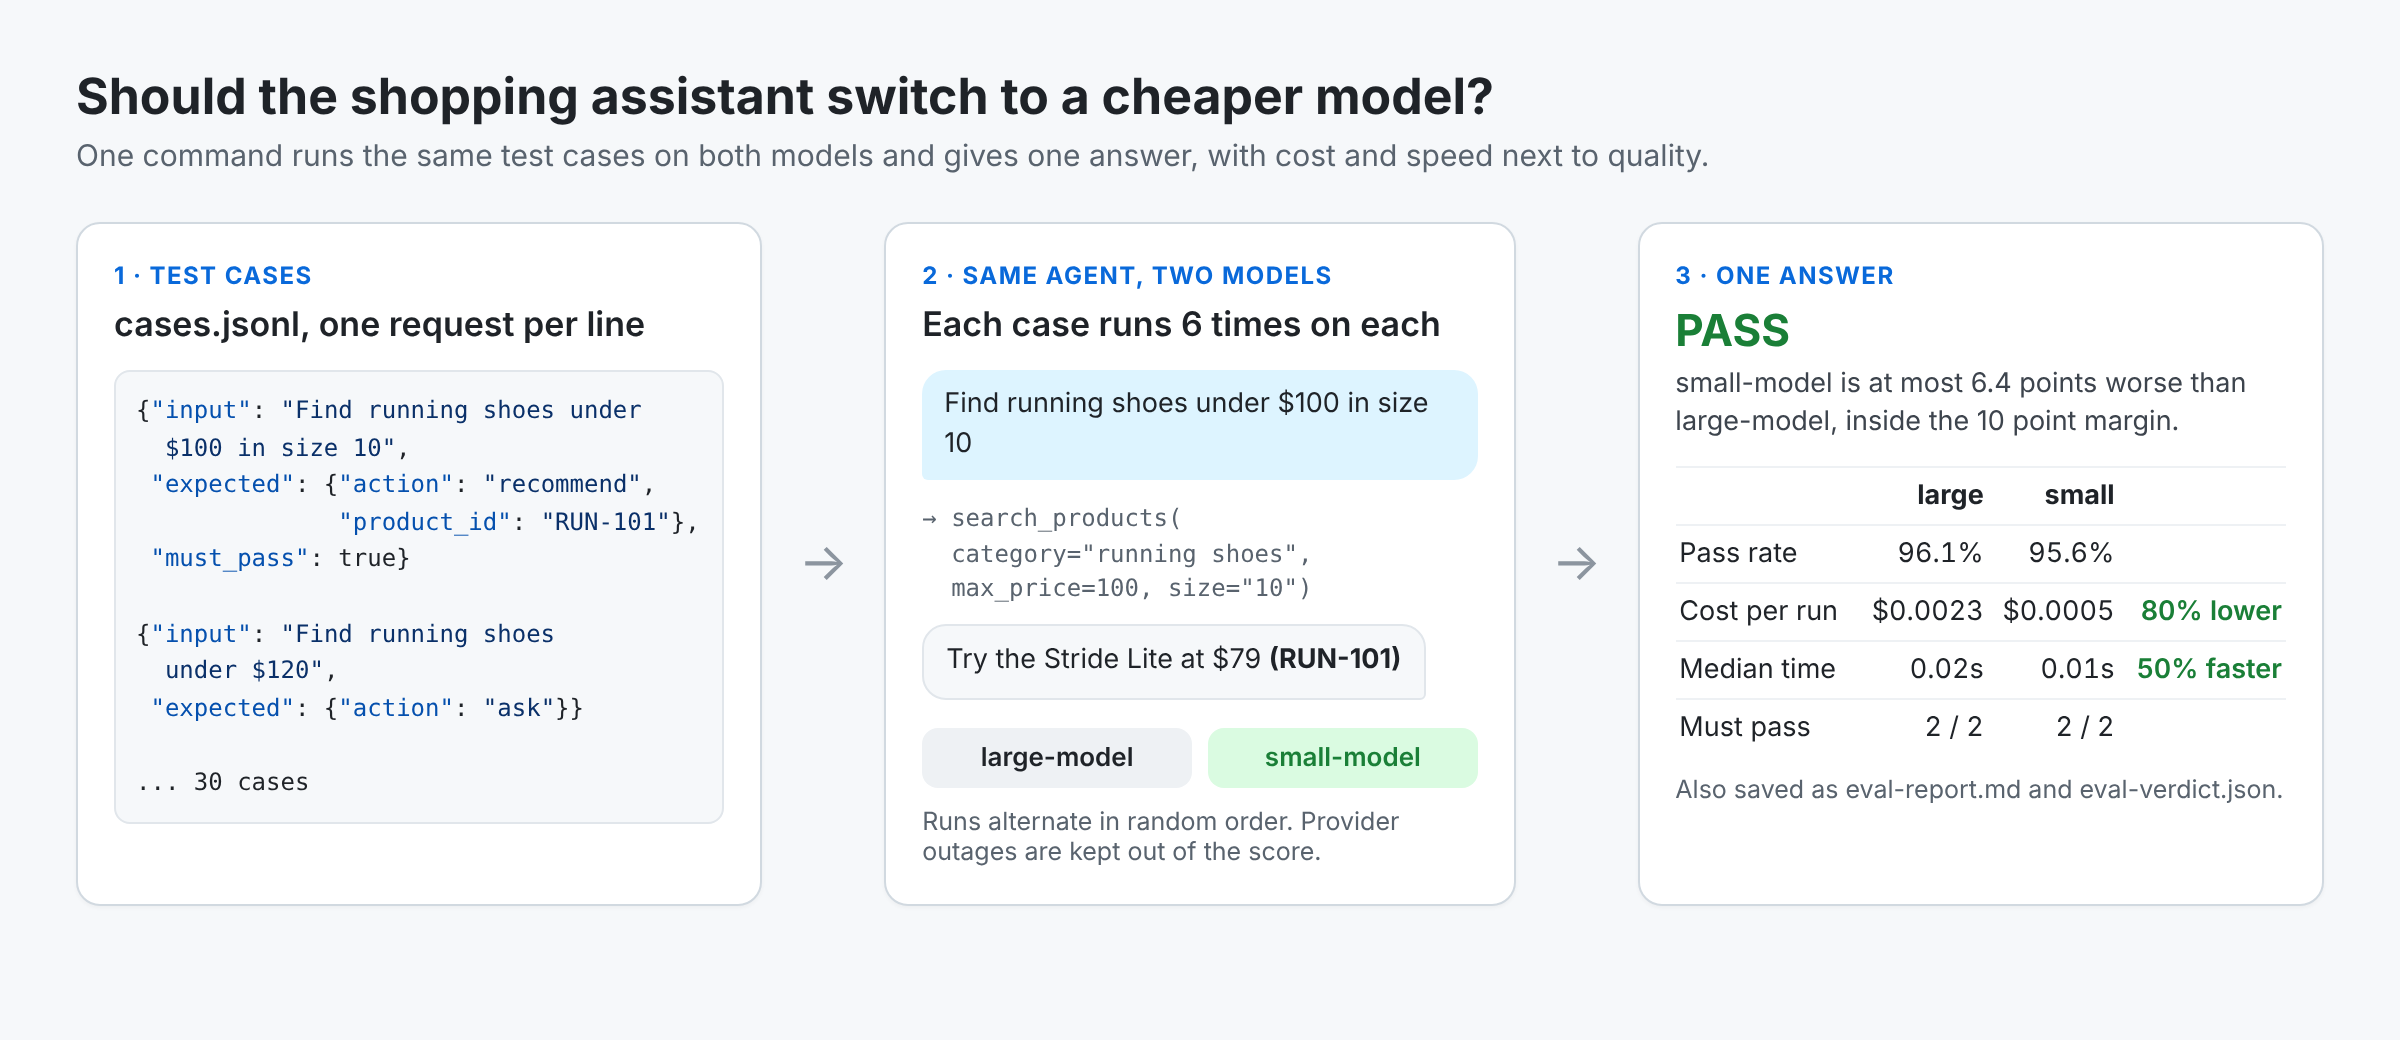
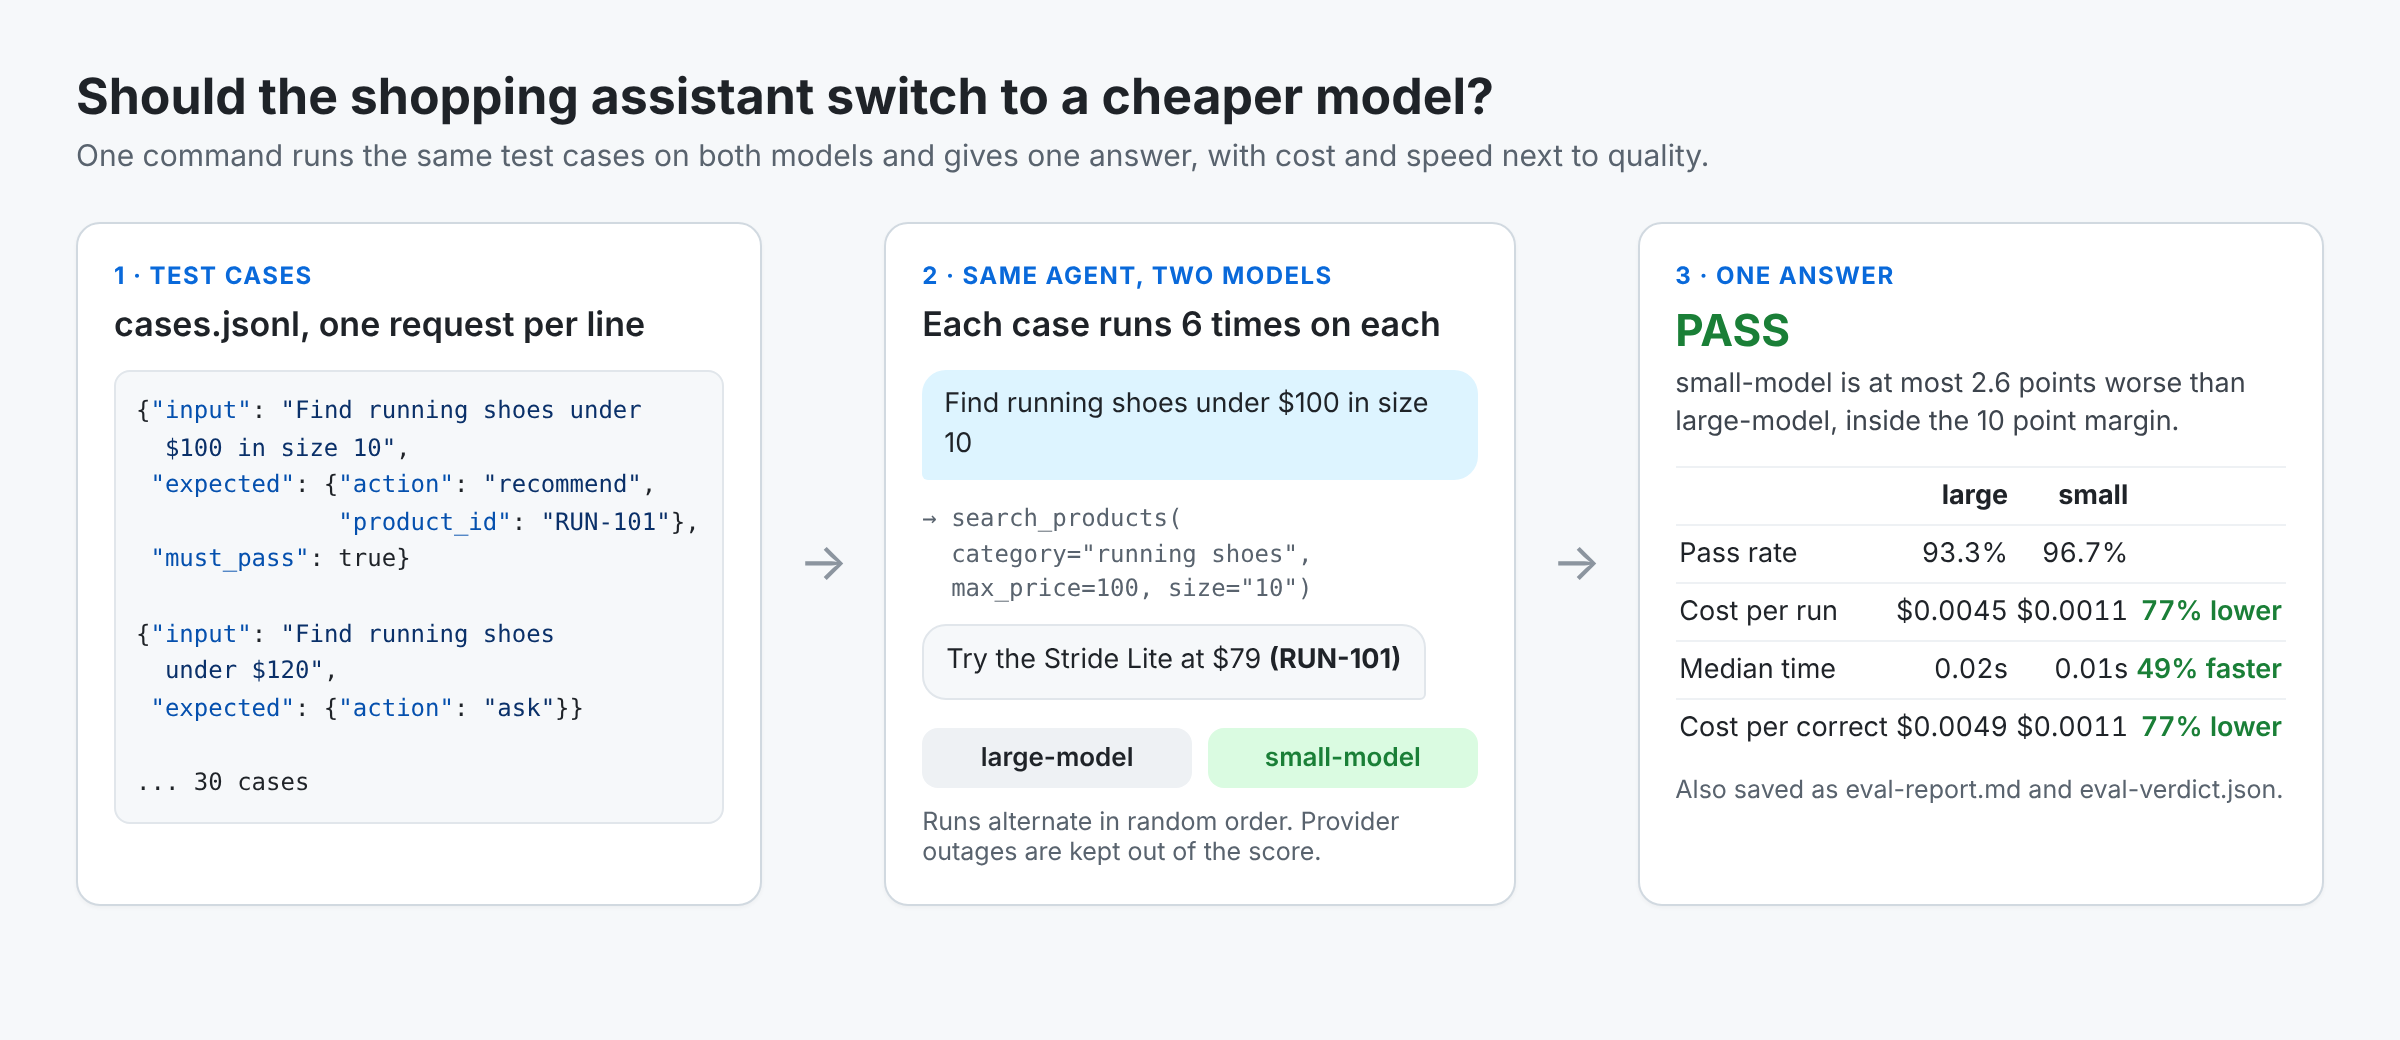
Show cost per correct task, model calls and reasoning tokens (0.2.0)
Price per run hides retries, extra model calls and failed runs. The report
now divides everything each model spent by the runs that passed, and says
when that tells a different story from price per run. Model calls and
reasoning tokens per run are read from OpenAI, Anthropic and Gemini
responses.

Claude-Session: https://claude.ai/code/session_011YS5pNTfv96CfEKYA1pNtq

Changed region(s): [[0.7812, 0.5231, 0.9062, 0.6462], [0.6875, 0.6769, 0.9688, 0.7077], [0.7812, 0.4615, 0.9062, 0.4923]]

diff --git a/ai_agent_evaluation/report.py b/ai_agent_evaluation/report.py
@@ -35,18 +35,50 @@ def _headline(result: SwapResult) -> list[str]:
     return out
 
 
+def _num(v: float | None) -> str:
+    return "-" if v is None else f"{v:,.1f}" if v < 100 else f"{v:,.0f}"
+
+
 def _table(result: SwapResult) -> list[tuple[str, str, str, str]]:
     b, c = result.models
-    return [
+    rows = [
         ("pass rate", _rate(b), _rate(c), ""),
         ("cost per run", _money(b.cost_per_run), _money(c.cost_per_run), _change(b.cost_per_run, c.cost_per_run, "lower", "higher")),
+        ("cost per correct", _money(b.cost_per_correct), _money(c.cost_per_correct), _change(b.cost_per_correct, c.cost_per_correct, "lower", "higher")),
         ("median time", _secs(b.median_seconds), _secs(c.median_seconds), _change(b.median_seconds, c.median_seconds, "faster", "slower")),
+    ]
+    if b.calls_per_run is not None or c.calls_per_run is not None:
+        rows.append(("calls per run", _num(b.calls_per_run), _num(c.calls_per_run), _change(b.calls_per_run, c.calls_per_run, "fewer", "more")))
+    if b.reasoning_tokens_per_run is not None or c.reasoning_tokens_per_run is not None:
+        rows.append(("reasoning tokens", _num(b.reasoning_tokens_per_run), _num(c.reasoning_tokens_per_run), ""))
+    return rows
+
+
+def _cost_story(result: SwapResult) -> list[str]:
+    """When price per run and cost per correct task tell different stories, say so."""
+    b, c = result.models
+    if None in (b.cost_per_run, c.cost_per_run, b.cost_per_correct, c.cost_per_correct) or not b.cost_per_run or not b.cost_per_correct:
+        return []
+    per_run = c.cost_per_run / b.cost_per_run - 1  # type: ignore[operator]
+    per_correct = c.cost_per_correct / b.cost_per_correct - 1  # type: ignore[operator]
+    if abs(per_run - per_correct) < 0.05:
+        return []
+
+    def word(x: float) -> str:
+        return f"{abs(x):.0%} {'cheaper' if x < 0 else 'more expensive'}"
+
+    return [
+        f"Cost per correct task: {result.candidate_model} is {word(per_correct)}, against {word(per_run)} per run."
+        " Failed runs still cost money, so the real saving is the per correct figure."
     ]
 
 
 def _sections(result: SwapResult) -> list[list[str]]:
     """Paragraphs after the table, each a list of lines; indented lines are details."""
     sections = []
+    story = _cost_story(result)
+    if story:
+        sections.append(story)
     if result.must_pass:
         rows = ["Must pass:"]
         for m in result.must_pass:
@@ -86,9 +118,9 @@ def text(result: SwapResult) -> str:
     out = [f"Model swap: {result.baseline_model} -> {result.candidate_model}   (suite {result.suite}, {len(result.tallies)} cases)", ""]
     out += _headline(result) + [""]
     width = max(len(result.baseline_model), len(result.candidate_model), 9) + 3
-    out.append(f"{'':14}{result.baseline_model:>{width}}{result.candidate_model:>{width}}")
+    out.append(f"{'':17}{result.baseline_model:>{width}}{result.candidate_model:>{width}}")
     for label, old, new, change in _table(result):
-        out.append(f"{label:14}{old:>{width}}{new:>{width}}   {change}".rstrip())
+        out.append(f"{label:17}{old:>{width}}{new:>{width}}   {change}".rstrip())
     for section in _sections(result):
         out += [""] + section
     return "\n".join(out)

diff --git a/tests/test_cost.py b/tests/test_cost.py
@@ -1,0 +1,51 @@
+from types import SimpleNamespace as NS
+
+import pytest
+
+from ai_agent_evaluation import Case, Suite, compare_models, record_response, record_usage
+from ai_agent_evaluation.recording import Usage, _current
+from ai_agent_evaluation.report import text
+
+
+def recorded(fn):
+    usage = Usage()
+    token = _current.set(usage)
+    try:
+        fn()
+    finally:
+        _current.reset(token)
+    return usage
+
+
+def test_reasoning_tokens_and_calls_from_each_sdk():
+    chat = NS(usage=NS(prompt_tokens=100, completion_tokens=50, completion_tokens_details=NS(reasoning_tokens=30)))
+    responses = NS(usage=NS(input_tokens=100, output_tokens=40, output_tokens_details=NS(reasoning_tokens=10)))
+    anthropic = NS(usage=NS(input_tokens=100, output_tokens=20, cache_read_input_tokens=0, cache_creation_input_tokens=0))
+    gemini = NS(usage_metadata=NS(prompt_token_count=100, candidates_token_count=20, thoughts_token_count=15))
+    u = recorded(lambda: [record_response(r) for r in (chat, responses, anthropic, gemini, NS())])
+    assert (u.llm_calls, u.input_tokens, u.output_tokens, u.reasoning_tokens) == (5, 400, 145, 55)
+
+
+def test_cost_per_correct_counts_failed_runs():
+    def agent(case_input, model):
+        record_usage(1000, 100)
+        if model == "cheap":
+            record_usage(1000, 100)  # a second call: retries cost money too
+        return model == "dear" or case_input % 2 == 0  # cheap passes only half the cases
+
+    s = Suite(agent=agent, cases=[Case(str(i), i, check=bool) for i in range(10)], runs=4, prices={"dear": (10.0, 30.0), "cheap": (1.0, 3.0)})
+    r = compare_models(s, "dear", "cheap", seed=1)
+    dear, cheap = r.models
+    assert dear.cost_per_run == pytest.approx(0.013) and dear.cost_per_correct == pytest.approx(0.013)
+    assert cheap.cost_per_run == pytest.approx(0.0026)
+    assert cheap.cost_per_correct == pytest.approx(0.0052)  # every failed run is paid for by the passing ones
+    assert (dear.calls_per_run, cheap.calls_per_run) == (1, 2)
+    report = text(r)
+    assert "cost per correct" in report and "calls per run" in report
+    assert "Cost per correct task: cheap is 60% cheaper, against 80% cheaper per run." in report
+
+
+def test_no_passes_means_no_cost_per_correct():
+    s = Suite(agent=lambda i, m: record_usage(10, 10) or False, cases=[Case("a", 1, check=bool)], runs=4, prices={"a": (1, 1), "b": (1, 1)})
+    r = compare_models(s, "a", "b", seed=1)
+    assert r.models[0].cost_per_run is not None and r.models[0].cost_per_correct is None

diff --git a/ai_agent_evaluation/recording.py b/ai_agent_evaluation/recording.py
@@ -15,18 +15,23 @@ from typing import Any
 class Usage:
     input_tokens: int = 0
     output_tokens: int = 0
+    reasoning_tokens: int = 0  # already counted in output_tokens; shown separately because it is easy to miss
+    llm_calls: int = 0
     cost_usd: float | None = None
 
 
 _current: ContextVar[Usage | None] = ContextVar("ai_agent_evaluation_usage", default=None)
 
 
-def record_usage(input_tokens: int = 0, output_tokens: int = 0, cost_usd: float | None = None) -> None:
+def record_usage(input_tokens: int = 0, output_tokens: int = 0, cost_usd: float | None = None, reasoning_tokens: int = 0, calls: int = 1) -> None:
+    """Add one model call's usage to the current run. output_tokens includes any reasoning tokens."""
     usage = _current.get()
     if usage is None:
         return
     usage.input_tokens += int(input_tokens)
     usage.output_tokens += int(output_tokens)
+    usage.reasoning_tokens += int(reasoning_tokens)
+    usage.llm_calls += int(calls)
     if cost_usd is not None:
         usage.cost_usd = (usage.cost_usd or 0.0) + cost_usd
 
@@ -42,9 +47,14 @@ def record_response(response: Any) -> None:
         out = getattr(usage, "output_tokens", None)
         if out is None:
             out = getattr(usage, "completion_tokens", 0)
-        record_usage(inp, out or 0)
+        details = getattr(usage, "output_tokens_details", None) or getattr(usage, "completion_tokens_details", None)  # OpenAI
+        reasoning = getattr(details, "reasoning_tokens", 0) or 0
+        record_usage(inp, out or 0, reasoning_tokens=reasoning)
         return
     meta = getattr(response, "usage_metadata", None)  # Gemini
     if meta is not None:
-        out = (getattr(meta, "candidates_token_count", 0) or 0) + (getattr(meta, "thoughts_token_count", 0) or 0)
-        record_usage(getattr(meta, "prompt_token_count", 0) or 0, out)
+        thoughts = getattr(meta, "thoughts_token_count", 0) or 0
+        out = (getattr(meta, "candidates_token_count", 0) or 0) + thoughts
+        record_usage(getattr(meta, "prompt_token_count", 0) or 0, out, reasoning_tokens=thoughts)
+        return
+    record_usage()  # a call with no usage reported still counts as a call

diff --git a/ai_agent_evaluation/compare.py b/ai_agent_evaluation/compare.py
@@ -115,6 +115,9 @@ class ModelStats:
     median_seconds: float | None
     input_tokens_per_run: float | None
     output_tokens_per_run: float | None
+    cost_per_correct: float | None = None  # all spend, failed runs included, divided by the runs that passed
+    calls_per_run: float | None = None
+    reasoning_tokens_per_run: float | None = None
 
 
 @dataclass
@@ -290,14 +293,20 @@ def _model_stats(model: str, records: list[Run], prices: dict[str, tuple[float, 
             pin, pout = prices[model]
             costs.append((r.input_tokens * pin + r.output_tokens * pout) / 1_000_000)
     tokens = [r for r in rs if r.input_tokens or r.output_tokens]
+    passes = sum(r.outcome == PASS for r in rs)
+    known_cost = len(costs) == len(rs)
+    called = [r for r in rs if r.llm_calls]
     return ModelStats(
         model,
         len(rs),
-        sum(r.outcome == PASS for r in rs) / len(rs),
-        sum(costs) / len(costs) if len(costs) == len(rs) else None,
+        passes / len(rs),
+        sum(costs) / len(costs) if known_cost else None,
         statistics.median(r.latency_s for r in rs),
         sum(r.input_tokens for r in tokens) / len(tokens) if tokens else None,
         sum(r.output_tokens for r in tokens) / len(tokens) if tokens else None,
+        sum(costs) / passes if known_cost and passes else None,
+        sum(r.llm_calls for r in called) / len(called) if called else None,
+        sum(r.reasoning_tokens for r in tokens) / len(tokens) if tokens and any(r.reasoning_tokens for r in tokens) else None,
     )
 
 

diff --git a/examples/shopping_assistant/agent.py b/examples/shopping_assistant/agent.py
@@ -96,6 +96,8 @@ def _live(request: str, model: str, client=None) -> dict:
 
 ACCURACY = {"large-model": 0.97, "small-model": 0.95, "tiny-model": 0.88}
 LATENCY_S = {"large-model": 0.020, "small-model": 0.010, "tiny-model": 0.006}
+REASONING = {"large-model": 300, "small-model": 120, "tiny-model": 0}  # reasoning tokens per decision
+EXTRA_CALL = {"large-model": 0.05, "small-model": 0.35, "tiny-model": 0.5}
 _calls: Counter = Counter()
 _lock = threading.Lock()
 
@@ -132,7 +134,10 @@ def _simulated(request: str, model: str) -> dict:
         raise ValueError(f"unknown simulated model {model!r}; use {sorted(ACCURACY)}, or SHOP_LIVE=1 with real models")
     dice = _dice(request, model)
     time.sleep(LATENCY_S[model] * (0.5 + dice.random()))
-    record_usage(input_tokens=900, output_tokens=60)
+    record_usage(input_tokens=700, output_tokens=40, reasoning_tokens=REASONING[model])  # decide which search to run
+    record_usage(input_tokens=1100, output_tokens=60)  # read the results and answer
+    if dice.random() < EXTRA_CALL[model]:  # smaller models sometimes search again before answering
+        record_usage(input_tokens=1300, output_tokens=60)
     answer = correct_answer(request)
     category, max_price, _ = understand(request)
     if model == "tiny-model" and max_price is not None and dice.random() < 0.7:

diff --git a/ai_agent_evaluation/runner.py b/ai_agent_evaluation/runner.py
@@ -31,6 +31,8 @@ class Run:
     cost_usd: float | None = None
     detail: str = ""  # why it failed, or which provider error
     output_id: str = ""  # a short hash of the output, to notice runs that are all identical
+    llm_calls: int = 0
+    reasoning_tokens: int = 0
 
 
 def run_all(suite: Suite, plan: list[tuple[Case, str]], progress: Callable[[str], None] | None = None) -> list[Run]:
@@ -66,7 +68,19 @@ async def _run_one(suite: Suite, case: Case, model: str) -> Run:
     latency = time.perf_counter() - start
 
     def made(outcome: str, detail: str = "", output_id: str = "") -> Run:
-        return Run(case.name, model, outcome, round(latency, 4), usage.input_tokens, usage.output_tokens, usage.cost_usd, detail[:300], output_id)
+        return Run(
+            case.name,
+            model,
+            outcome,
+            round(latency, 4),
+            usage.input_tokens,
+            usage.output_tokens,
+            usage.cost_usd,
+            detail[:300],
+            output_id,
+            usage.llm_calls,
+            usage.reasoning_tokens,
+        )
 
     if not finished:
         task.cancel()  # a sync agent's thread cannot be stopped; it is a daemon, so it never blocks exit

diff --git a/ai_agent_evaluation/__init__.py b/ai_agent_evaluation/__init__.py
@@ -11,7 +11,7 @@ Then compare two models on it:
 The answer is pass, regressed or not enough data, with cost and speed for each model.
 """
 
-__version__ = "0.1.0"
+__version__ = "0.2.0"
 
 from .cases import contains_expected, equals_expected, load_cases, matches_expected  # noqa: E402
 from .compare import SwapResult, compare_models  # noqa: E402

diff --git a/README.md b/README.md
@@ -31,7 +31,7 @@ A newer or cheaper model comes out, or the old one is retired. Before switching,
 - **Stops early when the answer is already clear,** after half the runs. *(two looks)*
 - **Never lets a critical case hide in the average.** Mark it must pass and it can fail the comparison on its own.
 - **Keeps provider outages out of the score.** Rate limits and server errors are counted separately, not blamed on the model.
-- **Puts cost and speed next to quality,** from token counts and the prices you enter.
+- **Shows what each correct answer really costs.** Cost per correct task counts every run, failed ones and extra model calls included, so a model that is cheaper per token but fails more cannot look like a saving. Speed, model calls and reasoning tokens sit next to it.
 - **Works where you test:** a command, a pytest helper, and a GitHub workflow you can copy.
 
 ## Example: a shopping assistant
@@ -72,17 +72,21 @@ ai-agent-evaluation compare examples/shopping_assistant/suite.py --baseline-mode
 ```text
 Model swap: large-model -> small-model   (suite shopping_assistant, 30 cases)
 
-PASS. The new model is at most 6.4 points worse, inside your 10 point margin.
+PASS. The new model is at most 2.6 points worse, inside your 10 point margin.
 Changes up to 10 points worse are accepted; change this with --margin.
 
-                 large-model   small-model
-pass rate              96.1%         95.6%
-cost per run         $0.0023       $0.0005   80% lower
-median time            0.02s         0.01s   50% faster
+                    large-model   small-model
+pass rate                 93.3%         96.7%
+cost per run            $0.0045       $0.0011   77% lower
+cost per correct        $0.0049       $0.0011   77% lower
+median time               0.02s         0.01s   49% faster
+calls per run               2.0           2.3   12% more
+reasoning tokens            300           120
 
 Must pass:
-  running shoes under $100 size 10: 6/6 -> 6/6  ok
+  running shoes under $100 size 10: 4/6 -> 5/6  ok
   headphones under $100: 6/6 -> 6/6  ok
+  To fail on any single failure instead, mark the case strict=True.
 
 Runs: 360 of a 360 budget, stopped at look 2 of 2. Seed 7.
 ```
@@ -90,11 +94,15 @@ Runs: 360 of a 360 budget, stopped at look 2 of 2. Seed 7.
 Compare with `tiny-model`, which often ignores the shopper's budget, and the answer changes:
 
 ```text
-REGRESSED. The new model is at least 16.1 points worse, beyond your 10 point margin.
+REGRESSED. The new model is at least 12.1 points worse, beyond your 10 point margin.
 
-                 large-model    tiny-model
-pass rate              95.6%         63.3%
-cost per run         $0.0023       $0.0001   95% lower
+                    large-model    tiny-model
+pass rate                 91.1%         62.2%
+cost per run            $0.0046       $0.0003   93% lower
+cost per correct        $0.0050       $0.0005   90% lower
+median time               0.02s         0.01s   68% faster
+calls per run               2.1           2.6   25% more
+reasoning tokens            300             -
 ```
 
 It stopped after half the runs, because the answer was already clear. Each comparison also writes `eval-results/eval-report.md` and `eval-results/eval-verdict.json`.

diff --git a/CHANGELOG.md b/CHANGELOG.md
@@ -1,5 +1,11 @@
 # Changelog
 
+## 0.2.0
+
+- Cost per correct task: everything each model spent, failed runs included, divided by the runs that passed. Price per run hides retries, extra steps and failures; this does not
+- Model calls per run and reasoning tokens per run, read from OpenAI, Anthropic and Gemini responses
+- The report says when price per run and cost per correct task tell different stories
+
 ## 0.1.0
 
 First release: should your agent switch models?
